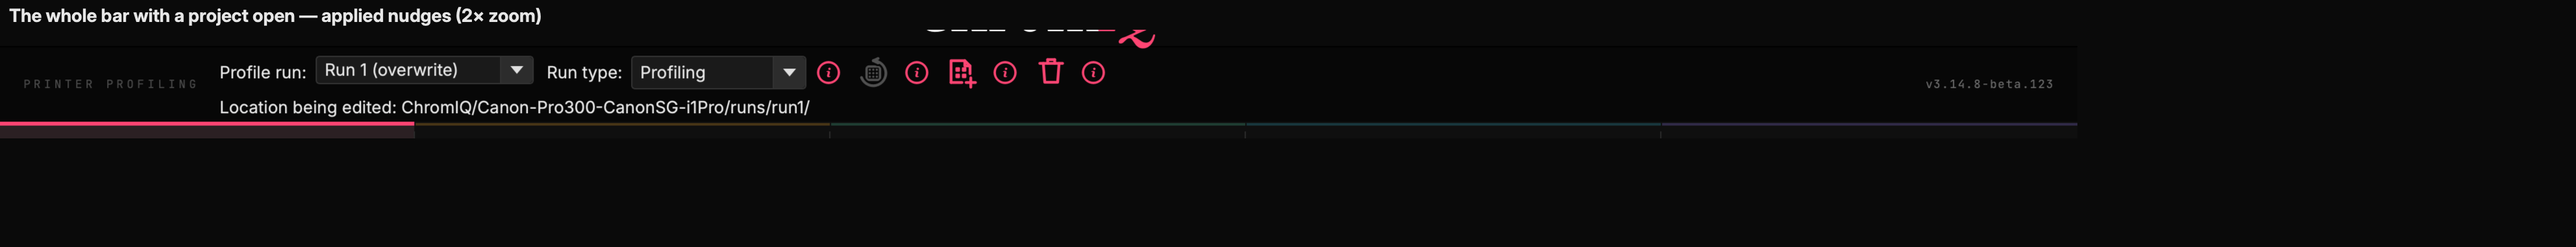
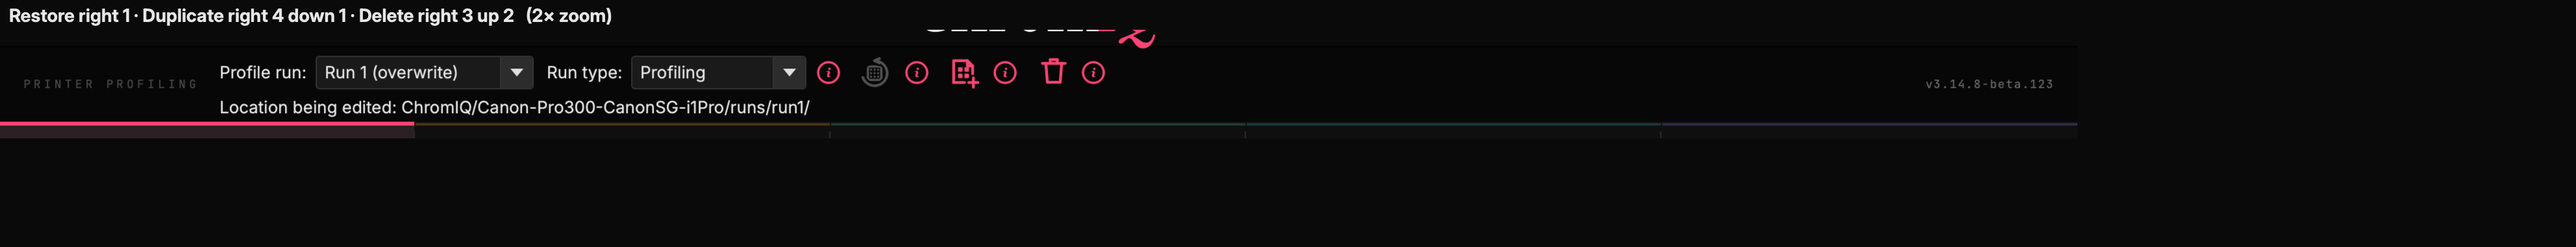
#130: second pass on the bar marks — all three closer to their own ⓘ
Basti, having seen the whole row: restore right 1, and a further right 2 on
each of duplicate and delete. Cumulative values are now

    restore   right 1
    duplicate right 4, down 1
    delete    right 3, up 2

Restore keeps its baseline: it was the vertical reference the other two were
judged against, so only its distance to its own ⓘ was corrected.

Each ⓘ belongs to the mark on its left, and the row reads as three pairs rather
than six evenly spaced things — which is what these moves are for. The comment
records that these came in two passes, so the numbers are not mistaken for a
single measured offset.

Changed region(s): [[0.0, 0.0288, 0.25, 0.1152], [0.125, 0.2592, 0.2188, 0.3743], [0.3125, 0.2592, 0.4375, 0.3455]]

diff --git a/ui/bar_icons.py b/ui/bar_icons.py
@@ -344,20 +344,29 @@ def draw_duplicate_run(p: QPainter, colour: str) -> None:
 def restore_chart_button(colour: str, text: str,
                          parent: "QWidget | None" = None) -> BarIconButton:
     """The Restore Used Chart button: its mark alone."""
-    return BarIconButton(draw_restore_chart, colour, text, parent)
+    return _RestoreButton(draw_restore_chart, colour, text, parent)
+
+
+class _RestoreButton(BarIconButton):
+    #: Right 1 (#130, Basti 2026-08-03). The arrow tail sweeps left and the head
+    #: sits high-right, so the mark's weight is left of its box centre and it sat
+    #: further from its own ⓘ than the other two.
+    NUDGE = (1.0, 0.0)
 
 
 class _DuplicateButton(BarIconButton):
-    #: Down 1 and right 2 (#130, Basti 2026-08-03). The mark carries its weight
-    #: low and left — the "+" hangs off the bottom-right of a page that sits
-    #: left in its box — so it read as high and far from its own ⓘ.
-    NUDGE = (2.0, 1.0)
+    #: Right 4, down 1 (#130, Basti 2026-08-03, in two passes: right 2 / down 1,
+    #: then a further right 2 once he saw the whole row). The mark carries its
+    #: weight low and left — the "+" hangs off the bottom-right of a page that
+    #: sits left in its box.
+    NUDGE = (4.0, 1.0)
 
 
 class _DeleteButton(BarIconButton):
-    #: Up 2 and right 1 (#130, Basti 2026-08-03). The lid is a solid horizontal
-    #: stroke across the top, which makes the bin read as sitting low.
-    NUDGE = (1.0, -2.0)
+    #: Right 3, up 2 (#130, Basti 2026-08-03, in two passes: right 1 / up 2, then
+    #: a further right 2). The lid is a solid horizontal stroke across the top,
+    #: which makes the bin read as sitting low.
+    NUDGE = (3.0, -2.0)
 
 
 def duplicate_run_button(colour: str, text: str,

diff --git a/tests/test_bar_sits_on_the_masthead_rail.py b/tests/test_bar_sits_on_the_masthead_rail.py
@@ -94,15 +94,16 @@ def test_the_marks_are_geometrically_identical_which_is_the_whole_point():
 def test_duplicate_and_delete_carry_the_values_basti_chose():
     from ui.bar_icons import delete_button, duplicate_run_button
     from ui.styles import SPEC_MAGENTA
-    assert duplicate_run_button(SPEC_MAGENTA, "d").NUDGE == (2.0, 1.0)
-    assert delete_button(SPEC_MAGENTA, "x").NUDGE == (1.0, -2.0)
+    assert duplicate_run_button(SPEC_MAGENTA, "d").NUDGE == (4.0, 1.0)
+    assert delete_button(SPEC_MAGENTA, "x").NUDGE == (3.0, -2.0)
 
 
-def test_restore_is_not_nudged():
-    """It was the reference the other two were judged against."""
+def test_restore_moves_right_but_not_vertically():
+    """It was the vertical reference the other two were judged against, so it
+    keeps its baseline — only its distance to its own ⓘ was corrected."""
     from ui.bar_icons import restore_chart_button
     from ui.styles import SPEC_MAGENTA
-    assert restore_chart_button(SPEC_MAGENTA, "r").NUDGE == (0.0, 0.0)
+    assert restore_chart_button(SPEC_MAGENTA, "r").NUDGE == (1.0, 0.0)
 
 
 def test_the_nudge_moves_the_mark_and_not_the_button(qapp):
